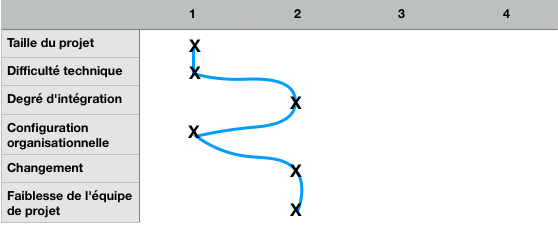
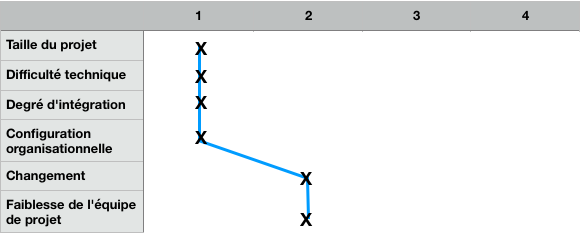
Dernier check-up

Changed region(s): [[0.0, 0.1244, 0.2742, 1.0], [0.3351, 0.1556, 0.5484, 0.9956], [0.0, 0.0, 1.0, 0.0933]]

diff --git a/gestion_projet.tex b/gestion_projet.tex
@@ -1,5 +1,5 @@
 \documentclass[t, 12pt, usenames,dvipsnames]{article}
-\usepackage[top=2.cm, bottom=2.8cm, left=2.2cm, right=2.2cm]{geometry}
+\usepackage[top=2.cm, bottom=2.4cm, left=2.2cm, right=2.2cm]{geometry}
 \usepackage[utf8]{inputenc}
 \usepackage[francais, english, french]{babel}
 % Package definition
@@ -64,12 +64,13 @@
             \item SM : Scrum Master;
             \item OS : Operating System;
             \item API : Application Program Interface;
+            \item SoTA : State of The Art (état de l'art en anglais);
         \end{itemize}
     
     \section{Définitions}
         \begin{itemize}
             \item GitHub : service web d'hébergement et de gestion de code source
-            \item Jira : plateforme pour le suivi des tâches en agile
+            \item Jira : plate-forme pour le suivi des tâches en agile
             \item VueJS : framework JavaScript qui permet la construction d'applications web grâce à un système de composants réutilisables.
         \end{itemize}
 %%%%%%%%%%%%%%%%%%%%%%%%%%%%%%%%%%%%%%%%%%%%%%%%%%%%%%%%%%%%%%%%%%%%%
@@ -84,21 +85,22 @@
             \noindent Le but du projet est de faciliter la tâche au monde scientifique, en aidant les chercheurs dans la création et la publication d'états de l'art. Actuellement, ce processus peut prendre jusqu'à deux ans. Nous avons créé une application web permettant de mettre en ligne les états de l'art des chercheurs, même si le travail n'a pas encore été approuvé par les pairs, c'est-à-dire les autres chercheurs du domaine, les personnes qui valident (ou non) un article ou un état de l'art.
     
         \subsection{Définition du projet}
+        \label{section:def_projet}
             \noindent Le 07 févier 2019, le client nous a brièvement présenté le projet. Puis, le 19, il nous a parlé de ses attentes, de ce qui se fait pour le moment et de comment il envisageait une alternative par ce projet.\\
             Nous avons travaillé avec la méthode agile et le modèle SCRUM, avec des sprints de minimum deux semaines et des sprint reviews avec le client pour faire le point sur l'avancement du projet. Le cycle de vie du projet est donc adaptatif.\\
             Le projet a duré 3 mois, l'application web devait être déployée le 14 mai et la présentation finale a eu lieu le 16 mai.
         
         \subsection{Contraintes}
-            \noindent Nous devions à la fois créer une application qui respecte les exigences du client, mais aussi ne ressemblant pas à ceux déjà présents sur le marché, comme Google Scholar par exemple (= périmètre). Il fallait également respecter le délai prévu pour le client tout en fournissant un produit fonctionnel. Ce projet faisant partie de notre cursus, aucun budget n'était prévu.\\
-            Les choix des technologies étaient aussi une contrainte pour nous. En back-end, il nous a été imposé d'utiliser \textit{Java}. Par contre, pour le front-end, nous avons décidé de travailler avec un framework de \textit{Javascript}, \textbf{\textit{VueJS}}. Il nous fallait également une base de données pour pouvoir tester le projet car le client ne nous a pas fourni les données dont nous avions besoin.\\
-            Comme il s'agit d'un projet réalisé dans le cadre d'un cours, nous avions aussi des échéances à respecter, à savoir les sprint reviews en fin de chaque sprint et la date de fin du projet (cf Définition du projet).
+            \noindent Nous devions à la fois créer une application qui respecte les exigences du client, mais aussi qui ne ressemble pas à celles déjà présentes sur le marché (= périmètre). Un exemple d'application de ce genre serait Google Scholar. Il fallait également respecter le délai prévu pour le client tout en fournissant un produit fonctionnel. Ce projet faisant partie de notre cursus, aucun budget n'était prévu, le seul coût était l'effort de développement.\\
+            \newpage
+            Les choix des technologies étaient aussi une contrainte pour nous. En back-end, il nous a été imposé d'utiliser \textit{Java}. Par contre, pour le front-end, nous avons décidé de travailler avec un framework  \textit{Javascript}, \textbf{\textit{VueJS}}. Il nous fallait également une base de données pour pouvoir tester le projet car le client ne nous a pas fourni les données dont nous avions besoin.\\
+            Comme il s'agissait d'un projet réalisé dans le cadre d'un cours, nous avions aussi des échéances à respecter, à savoir les sprint reviews en fin de chaque sprint et la date de fin du projet (cf section \ref{section:def_projet}).
             
 %%%%%%%%%%%%%%%%%%%%%%%%%%%%%%%%%%%%%%%%%%%%%%%%%%%%%%%%%%%%%%%%%%%%
     \section{Organisation du projet}
-        \noindent Le choix de l'organisation du groupe a été fait de façon presque naturelle et par désignation en fonction des compétences de certains membres du groupe ainsi que de leur expérience.
-        
+
         \subsection{Constitution du groupe de travail}
-            \noindent Les différents groupes se sont formés par tirage au sort en classe, chacun choisissait un papier sur lequel il trouvait le numéro de son groupe. Chaque groupe avait leur propre local de travail dans la faculté. Notre groupe se compose de six personnes et s'est rapidement divisé en deux équipes (front-end et back-end), l'une responsable de la conception de l'API et l'autre de l'application web. Voici les membres de notre groupe et leur rôle durant le projet:
+            \noindent Les différents groupes se sont formés par tirage au sort en classe, chacun choisissait un papier sur lequel se trouvait le numéro de son groupe. Chaque groupe avait leur propre local de travail dans la faculté. Notre groupe se composait de six personnes et s'est rapidement divisé en deux équipes (front-end et back-end), l'une responsable de la conception de l'API et l'autre de l'application web. Le choix de l'organisation du groupe a été fait de façon presque naturelle et par désignation en fonction des compétences de certains membres du groupe ainsi que de leur expérience. Voici les membres de notre groupe et leur rôle durant le projet:
                 \begin{itemize}
                     \item \textit{David Adegnon} : Team Member. Électron libre entre le back-end et le front-end, en fonction des besoins.
                     \item \textit{Guillaume Maître} : Scrum Master. En charge du front-end, de la cohésion et bonne entente de l'équipe ainsi que de sa productivité.
@@ -108,8 +110,11 @@
                     \item \textit{Ludovic Wasterlain} : Team Member. En charge de la partie front-end.
                 \end{itemize}
                 
-            \noindent Nous tenons à souligner que les rôles cités ci-dessus sont les rôles de départ. Nous avons été assez flexibles pendant le projet et s'il fallait du renfort quelque part, il y avait toujours quelqu'un pour aider. \\
-            Chaque membre a eu une ou plusieurs tâche(s) à compléter pendant chaque sprint (généralement deux semaines). Le Product Owner et le Scrum Master créaient les tâches à effectuer pour le sprint et y attribuaient une estimation en terme de points, en se basant sur la suite de Fibonacci (1,2,3,5,8). Après discussion, certaines tâches étaient assignées à des membres du groupe. Sinon, les membres s'assignaient la/les tâche(s) qu'ils souhaitaient réaliser et en ajoutaient éventuellement.\\
+            \noindent Nous tenons à souligner que les rôles cités ci-dessus sont les rôles de départ. Nous avons été assez flexibles pendant le projet et s'il fallait du renfort quelque part, il y avait toujours quelqu'un pour aider. 
+            
+            \newpage
+            
+            \noindent Chaque membre a eu une ou plusieurs tâche(s) à compléter pendant chaque sprint (généralement, de deux semaines). Le Product Owner et le Scrum Master créaient les tâches à effectuer pour le sprint et y attribuaient une estimation en terme de points, en se basant sur la suite de Fibonacci (1,2,3,5,8). Après discussion, certaines tâches étaient assignées à des membres du groupe. Sinon, les membres s'assignaient la/les tâche(s) qu'ils souhaitaient réaliser et en ajoutaient éventuellement.\\
             Nos réunions se faisaient à la fin des sprint reviews, pour prévoir le sprint suivant et définir le backlog. Nous avons travaillé ensemble dans notre local tout au long du projet, durant au moins 6h par semaine avec l'équipe entièrement présente.
             
         \subsection{Méthode choisie}
@@ -129,24 +134,24 @@
             Nous avons aussi eu l'honneur de pouvoir parler directement avec certains chercheurs au début du projet pour leur présenter nos idées de base sur la réalisation du projet. Nous avons ainsi reçu leur opinion sur nos idées.
 
 %%%%%%%%%%%%%%%%%%%%%%%%%%%%%%%%%%%%%%%%%%%%%%%%%%%%%%%%%%%%%%%%%%%%
-    \newpage
-    
+
     \section{Livrables du projet}
         
         \subsection{Cahier des charges}
             \noindent Nous avons réalisé un cahier des charges afin de nous assurer, d'une part, que nous n'oubliions aucun point et, d'autre part, que notre application serait conforme aux attentes du client. Ce cahier contient l'ensemble des exigences fonctionnelles et non fonctionnelles du projet.
             
         \subsection{Application web}
-            \noindent Le projet a été livré sous forme d'une application web déployée, pour que le client puisse la tester et la valider. Le déploiement devait se faire sur une machine virtuelle mise à notre disposition et hébergée sur les serveurs de l'université. Il y a aussi une documentation annexée aux livrables pour expliquer le fonctionnement du site.\\
+            \noindent Le projet a été livré sous forme d'une application web déployée, pour que le client puisse la tester et la valider. Le déploiement devait se faire sur une machine virtuelle mise à notre disposition et hébergée sur les serveurs de l'université. Une documentation annexée aux livrables a été fournie, pour expliquer le fonctionnement du site.\\
             Aucun livrable n'a été demandé en cours de projet. Nous n'avons dû envoyer l'application qu'à la fin du dernier sprint.
         
         \subsection{Documentation}
             \noindent La documentation est destinée aux utilisateurs. Dans le site, ces derniers ont la possibilité de publier et ajouter des articles ou états de l'art. La documentation sert à expliquer comment faire car cela doit respecter un certain formalisme. La documentation est entre autres là pour rappeler qu'une personne voulant contribuer ou publier doit absolument faire partie d'une institution reconnue et la personne doit s'inscrire au préalable sur le site.
 
+    \newpage
 %%%%%%%%%%%%%%%%%%%%%%%%%%%%%%%%%%%%%%%%%%%%%%%%%%%%%%%%%%%%%%%%%%%%%
     \section{Qualité du projet}
         
-        \noindent Dès la conception du cahier des charges, nous avons pensé à la qualité du projet en intégrant les exigences de qualité. Nous n'avons pas de plan assurance qualité à part entière mais ce cahier des charges peut en partie servir comme tel, vu qu'il décrit, entre autres, ce que nous avons mis en place pour gérer la qualité de notre application.\\
+        \noindent Dès la conception du cahier des charges, nous avons pensé à la qualité du projet en intégrant les exigences de qualité. Nous n'avions pas de plan assurance qualité à part entière mais ce cahier des charges peut en partie servir comme tel, vu qu'il décrit, entre autres, ce que nous avons mis en place pour gérer la qualité de notre application.\\
         Les différents points de qualité dans notre projet sont:
         \begin{itemize}
             \item \textbf{Conformité par rapport aux besoins du client}: le but de ce projet était de créer une application web qui permet de créer, visualiser et trouver facilement des états de l'art. Notre application permet bien de réaliser ces différentes tâches.
@@ -168,34 +173,34 @@
                     \item Firefox v65.0
                     \item Safari v11.1
                 \end{enumerate}
+            \newpage
             \item \textbf{Réutilisabilité}: l'application est faites de nombreux composants, réutilisés à plusieurs endroits dans le code et réutilisables dans d'autres logiciels.
         \end{itemize}
         
-        \noindent Ces décisions ont été prises sans le client mais nous avons tenu compte de ses remarques lors des sprint reviews et apporté les modifications demandées.\\
+        \noindent Ces décisions ont été prises sans l'aval du client mais nous avons tenu compte de ses remarques lors des sprint reviews et apporté les modifications demandées.\\
         Les seuls critères d'acceptation étaient que le livrable de l'application devait être un lien vers celle-ci, mise en production, utilisable et testable.
         
     
-%%%%%%%%%%%%%%%%%%%%%%%%%%%%%%%%%%%%%%%%%%%%%%%%%%%%%%%%%%%%%%%%%%%%%
+%%%%%%%%%%%%%%%%%%%%%%%%%% %%%%%%%%%%%%%%%%%%%%%%%%%%%%%%%%%%%%%%%%%%%
 
     \newpage
 
     \section{Gestion des risques}
-    \noindent Comme il s'agit d'un projet universitaire et que l'application ne sera jamais réellement déployée, l'analyse des risques a été très limitée et nous n'avons pas de registre des risques.
+    \noindent Comme il s'agissait d'un projet universitaire et que l'application ne sera jamais réellement déployée sur un quelconque marché, l'analyse des risques a été très limitée et nous n'avons pas de registre des risques.
     
     \subsection{Profil de risque}
         \begin{itemize}
-            \item \textbf{Taille du projet}: le projet a duré 3 mois (risque = 1) et la charge de travail a été estimée à moins de 420 jours/personne (risque = 1; voir \textit{8.2 Cost Management}). Le risque total est donc de 1.
+            \item \textbf{Taille du projet}: le projet a duré 3 mois (risque = 1) et la charge de travail a été estimée à moins de 420 jours/personne (risque = 1; cf section  \textit{\ref{section:cost_mgmt}}). Le risque total est donc de 1.
             \item \textbf{Difficulté technique}: tous les marchés concernés par ce projet sont relativement bien référencés (risque = 1) et la contrainte de performance est normale (risque = 1), ce risque est donc également de 1.
             \item \textbf{Degré d'intégration}: il n'y a aucune application connexe en chantier (risque = 1) et il y a aucun flux inter-applicatif (risque = 1). Ce risque peut donc être estimé à 1.
             \item \textbf{Configuration organisationnelle}: une direction assure la maîtrise d'ouvrage, Benoît Vanderose (risque = 1), il y a un promoteur nommé, impliqué et légitime, Antoine Clarinval (risque = 1). Le projet a été suivi par toutes les parties prenantes (professeur, client et assistants), nous pouvons donc considéré que la direction générale a suivi le projet (risque = 1). Le risque total est de 1.
-            \item \textbf{Changement}: le degré d'évolution organisationnelle est d'écart faible (risque = 1), tandis que celui d'évolution fonctionnelle est d'écart faible?moyen? (risque =?) et celui d'évolution technique est d'écart moyen (risque = 2). Il n'y a qu'un site concerné (risque = 1). Le risque total est ici estimé à 1?2?.
+            \item \textbf{Changement}: le degré d'évolution organisationnelle est d'écart faible (risque = 1), tandis que celui d'évolution fonctionnelle est d'écart moyen (risque = 2) et celui d'évolution technique est d'écart moyen (risque = 2). Il n'y a qu'un site concerné (risque = 1). Le risque total est ici estimé à 2.
             \item \textbf{Faiblesse de l'équipe de projet}: notre équipe a de manière générale de faibles compétences techniques et de moyennes compétences fonctionnelles (respectivement risque 3 et 2). L'image du projet est valorisante (risque = 2). Ce risque est donc de 2.
         \end{itemize}
         
         \begin{center}                               
-            \includegraphics[scale=.8]{images/ProfilRisque.png}
+            \includegraphics[scale=.65]{images/ProfilRisque.png}
             \captionof{figure}{Profil de risque du projet}
-            %% mettre le final !!!
             \label{fig:profil_risque}
         \end{center}
     
@@ -206,7 +211,7 @@
         \item  Le premier risque identifié était le partage du code entre nous. Nous nous y sommes confrontés dès le début du projet. Pour gérer ce problème, nous avons choisi d'utiliser Github, qui permet de  centraliser le code et de gérer les conflits de différence entre les versions de code de chacun. Pour le placer au niveau de la matrice de probabilité de risque, il revenait à 70\% de probabilité et 0,56 niveau impact du risque. \\ Nous avons trouvé une solution donc ce risque a été évité.
         \item Un autre risque était l'utilisation de technologies différentes. Afin d'éviter que chaque personne n'utilise une technologie différente, il a fallu se mettre d'accord sur les technologies, utilisée à la fois en back-end et en front-end. Nous avons géré ce risque en commençant par comparer les technologies et libraires à notre disposition en tenant compte des contraintes.
         Ensuite, avant de nous lancer dans le développement, chaque groupe a du apprendre les bases des technologies à utiliser pour sa partie de l'application.\\
-        Enfin, pour combler les différentes lacunes ou ..., on a réalisé du pair programming.
+        Enfin, pour combler les différentes lacunes, on a réalisé du pair programming.
         Concrètement, à chaque fois qu'un membre du groupe ne pouvait pas réaliser sa tâche ou était dans l'impossibilité de la faire, un autre membre ayant déjà réalisé sa tâche ou ayant un peu plus d'expérience venait épauler les autres.\\ Une solution a également été trouvée pour ce risque, il a été évité.
         \item Un risque lié au produit est les navigateurs. Les visualisations proposées dans l'application étaient dépendantes du \textit{navigateur} et de sa version de \textit{Javascript}. Il était fort possible qu'avec certains navigateurs, l'affichage de la visualisation ne soit pas disponible ou ne soit pas correct. Pour réduire l'impact, nous avons affiché l'application sur plusieurs navigateurs et choisi le navigateur le plus optimal pour l'affichage des visualisations: Chrome. Nous avons conseillé ce navigateur pour avoir la meilleure expérience utilisateur. L'application fonctionne également sur Firefox et sur Safari.\\ Ce risque a été réduit: les navigateur testé sont les plus utilisés et nous en recommandons un.
     \end{enumerate}
@@ -219,14 +224,16 @@
     \section{Planification du projet}
         \subsection{Scope Management}
         \noindent Nous avons commencé le projet par une phase de conception et d'analyse. Une fois l'analyse faite à notre niveau et validée par le client, avec certaines remarques, nous avons commencé par l'apprentissage des outils et technologies à utiliser durant le développement. Nous sommes ensuite passés à l'installation de tous les outils et librairies nécessaires pour le bon déroulement du projet. Une fois la mise en place terminée, la phase de développement a commencé.\\
-        La plus grosse partie au lancement du projet était le back-end. L'équipe front-end s'est aussi lancée de son côté dans la réalisation de ses tâches. La connexion entre le back-end et le front-end n'a cependant été faite qu'une fois le back-end entièrement fonctionnel, pour permettre d'avancer sur le reste sans devoir attendre.\\
+        La plus grosse partie au lancement du projet était le back-end. L'équipe front-end s'est aussi lancée de son côté dans la réalisation de ses tâches. La connexion entre le back-end et le front-end n'a cependant été faite qu'une fois le back-end semi-fonctionnel ( avec les fonctionnalités de base), pour permettre d'avancer sur le reste sans devoir attendre. Au fur à mesure que l'API s'enrichissait de nouvelles fonctionnalités, celles-ci étaient connectés au front-end.\\
         Le modèle RACI de notre projet est le suivant:
         \begin{center}
             \includegraphics[scale=.5]{images/RACI.png}
             \captionof{figure}{Modèle RACI}
             \label{fig:modele_raci}
         \end{center}
-                
+            
+        \newpage
+        
         \noindent Voici une brève description de nos \textit{sprints} : 
 
             \subsubsection{Sprint 1}
@@ -279,25 +286,24 @@
 
                 
                  \begin{center}
-                    %%\includegraphics[scale=1]{images/graph/sprint1.png}\\
                     \includegraphics[scale=.25]{images/graph-new/sprint1.png}
-                    \captionof{figure}{Sprint 1: Burndown chart}%
+                    \captionof{figure}{Sprint 1: Burndown chart}
                     \label{fig:sprint1_graph}
                 \end{center}
-                Comme le montre ce premier burndown chart \ref{fig:sprint1_graph}, nous avions oublié d'estimer nos tâches et donc celui reste toujours à 0.
+                Comme le montre ce premier burndown chart, nous avions oublié d'estimer nos tâches et donc celui reste toujours à 0.
                 
                 
             \subsubsection{Sprint 2}
-                \noindent Durant ce deuxième sprint, nous avions peaufiné les précédents wireframes et entamé ceux concernant les visualisations disponibles dans l'application web. Nous avons appris de notre précédente erreur, ainsi, pour l'estimation des tâches actuelles et futures, nous avons utilisé une échelle de valeur suivant les chiffres de Fibonacci: 1, 2, 3, 5, 8. Plus le chiffre est grand, plus il faudra d'efforts pour accomplir la tâche. Nous nous sommes réparti les tâches de manière à ce que chaque membre de l'équipe ait une charge de travail égale. Le SM distribuait les tâches pour que chaque personne ait une charge de travail égale à 10 points (2 tâches à 5 points, 3 tâches à 3 points et une à 1 point,...).
+                \noindent Durant ce deuxième sprint, nous avions peaufiné les précédents wireframes et entamé ceux concernant les visualisations disponibles dans l'application web. Nous avons appris de notre précédente erreur, ainsi, pour l'estimation des tâches actuelles et futures, nous avons utilisé une échelle de valeur suivant les chiffres de Fibonacci: 1, 2, 3, 5, 8. Plus le chiffre est grand, plus il faudra d'efforts pour accomplir la tâche. Nous nous sommes réparti les tâches de manière à ce que chaque membre de l'équipe ait une charge de travail égale. Le SM distribuait les tâches pour que chaque personne ait une charge de travail égale à 10 points (2 tâches à 5 points ou 3 tâches à 3 points et une à 1 point,...).
                 \newline
-                Nous nous sommes rendus compte que l'on avait oublié le sprint retrospective au sprint précédent. Nous l'avons donc fait à la fin de ce sprint review. 
+                Nous nous sommes rendus compte que l'on avait oublié le sprint rétrospective au sprint précédent. Nous l'avons donc fait à la fin de ce sprint review. 
                 Nous avons utilisé le tableau du local et de post-it de différentes couleurs. Nous avons établi 4 catégories \textit{K.I.S.S.} (Keep, Improve, Start doing, Stop doing) et chacun devait se servir des post-it pour suggérer des activités ou idées pour améliorer le prochain sprint.
 
 
                 \begin{center}                               
                     \includegraphics[scale=.1]{images/sprint/sprint-retro.jpg}
                     \captionof{figure}{Sprint 1: Sprint rétrospective}
-                    \label{fig:sprint1_graph}
+                    \label{fig:sprint1_retro}
                 \end{center}
 
                 \begin{center}
@@ -321,11 +327,11 @@
                     \label{fig:sprint3_graph}
                 \end{center}
                 
-                \noindent Malgré cela, nous avons à nouveau fait une sur estimation du temps que nous pouvions mettre dans le développement.
+                \noindent Malgré cela, nous avons à nouveau fait une erreur sur l'estimation du temps que nous pouvions mettre dans le développement.
                 
                 
             \subsubsection{Sprint 4}
-                \noindent Sprint fort ressemblant au sprint précédent. Nous avons profité de la période de congé pour avancer le plus possible dans l'application. Nous avons aussi ajouté pas mal de tâches en cours de sprint car nous découvrions des bugs ou des fonctionnalités manquantes à ajouter. Le graphique ne monte pas car nous n'avions pas encore trouver comment estimer les tâches ajoutées en cours de sprint.
+                \noindent Sprint fort ressemblant au sprint précédent. Nous avons profité de la période de congé pour avancer le plus possible dans l'application. Nous avons aussi ajouté pas mal de tâches en cours de sprint car nous découvrions des bugs ou des fonctionnalités manquantes à ajouter. Le graphique ne le monte pas car nous n'avions pas encore trouver comment estimer les tâches ajoutées en cours de sprint.
                 Ceci explique en partie l'écart final dans le graphique ci-dessous.
                 
                 \begin{center}
@@ -348,11 +354,12 @@
                 
                 
            \subsubsection{Conclusion} 
-               \noindent Nous avons eu du mal au début à bien répartir les tâches avec de bonnes estimations de temps,... mais au fur et à mesure, nous avons commencé mieux nous en sortir. \\
+               \noindent Nous avons eu du mal au début à bien répartir les tâches avec de bonnes estimations de temps, mais au fur et à mesure, nous avons commencé mieux nous en sortir. \\
                 L'un de nos plus gros défaut dans la gestion du temps et des sprints est que nous n'avons pas fait comme montré au cours (tableaux d'emplois du temps,... pour chaque personne). Il aurait également fallu attribuer dès le début toutes les tâches de tous les sprints et ne pas les configurer en fin de sprint précédent mais cela ne rentre pas dans la philosophie Agile. 
                 
         
         \subsection{Cost Management}
+        \label{section:cost_mgmt}
             \noindent Au niveau de l'effort de développement, il y a deux éléments à discuter: la charge et la durée du projet.
             \begin{enumerate}
                 \item La charge de travail a été estimée à 420 jours/personne.
@@ -360,7 +367,7 @@
             \end{enumerate}
             Les chiffres ci-dessus ont été estimés de façon à correspondre à plus ou moins 3h de travail par jour et par personne pendant 3 mois.
             
-            Pour ce qui est du budget, étant donné que c'est un projet étudiant, cela n'a pas beaucoup de sens de faire une estimation.
+            \noindent Pour ce qui est du budget, étant donné que c'est un projet étudiant, cela n'a pas beaucoup de sens de faire une estimation.
     
 %%%%%%%%%%%%%%%%%%%%%%%%%%%%%%%%%%%%%%%%%%%%%%%%%%%%%%%%%%%%%%%%%%%%%
     \section{Clôture du projet}
@@ -381,7 +388,7 @@
      
      \subsection{Gestion des tâches}
      \noindent Un autre problème assez récurrent est lié au fait que nous faisions nos tâches pour les sprints au moment de les commencer. Ce qui finissait toujours par se resentir vers la moitié du sprint car nous remarquions que des tâches manquaient, étaient non cohérentes,... . Jira nous permettait d'ajouter des tâches dans le sprint mais pas de leur donner une estimation de valeur. Ce qui rendait la comparaison de charge de travail entre les membres du groupe faussée. Ainsi que des questionnements sur qui fait quoi à certains moments. Nous avons fini par trouver un moyen d'estimer les tâches ajoutées en cours de sprints mais c'était lors du dernier sprint.
-     \\ Nous aurions pu faire une matrice RACI pour définir à l'avance qui s'occupe de quelles parties dans le projet, savoir qui consulter,... durant les phases plus molles où certains avaient finis leurs tâches et se demandaient quoi faire. \\
+     \\ Nous aurions pu faire une matrice RACI pour définir à l'avance qui s'occupe de quelles parties dans le projet, savoir qui consulter et durant les phases plus molles où certains avaient finis leurs tâches et se demandaient quoi faire. \\
      Nous aurions aussi dû prévoir plus de tâches dés le début (par exemple, estimer le plus de tâches possibles au début de chaque sprint) pour avoir toujours des tâches de réserve et une meilleure idée de ce qu'il reste à faire avant d'entamer le sprint suivant. S'il ne reste plus qu'à rajouter des tâches de type "fixer une feature" par exemple, c'est beaucoup plus simple et cela évite des surprises, comme oublier des tâches au fur et à mesure que les sprints avancent.
      
      \subsection{Suivi personnel}
